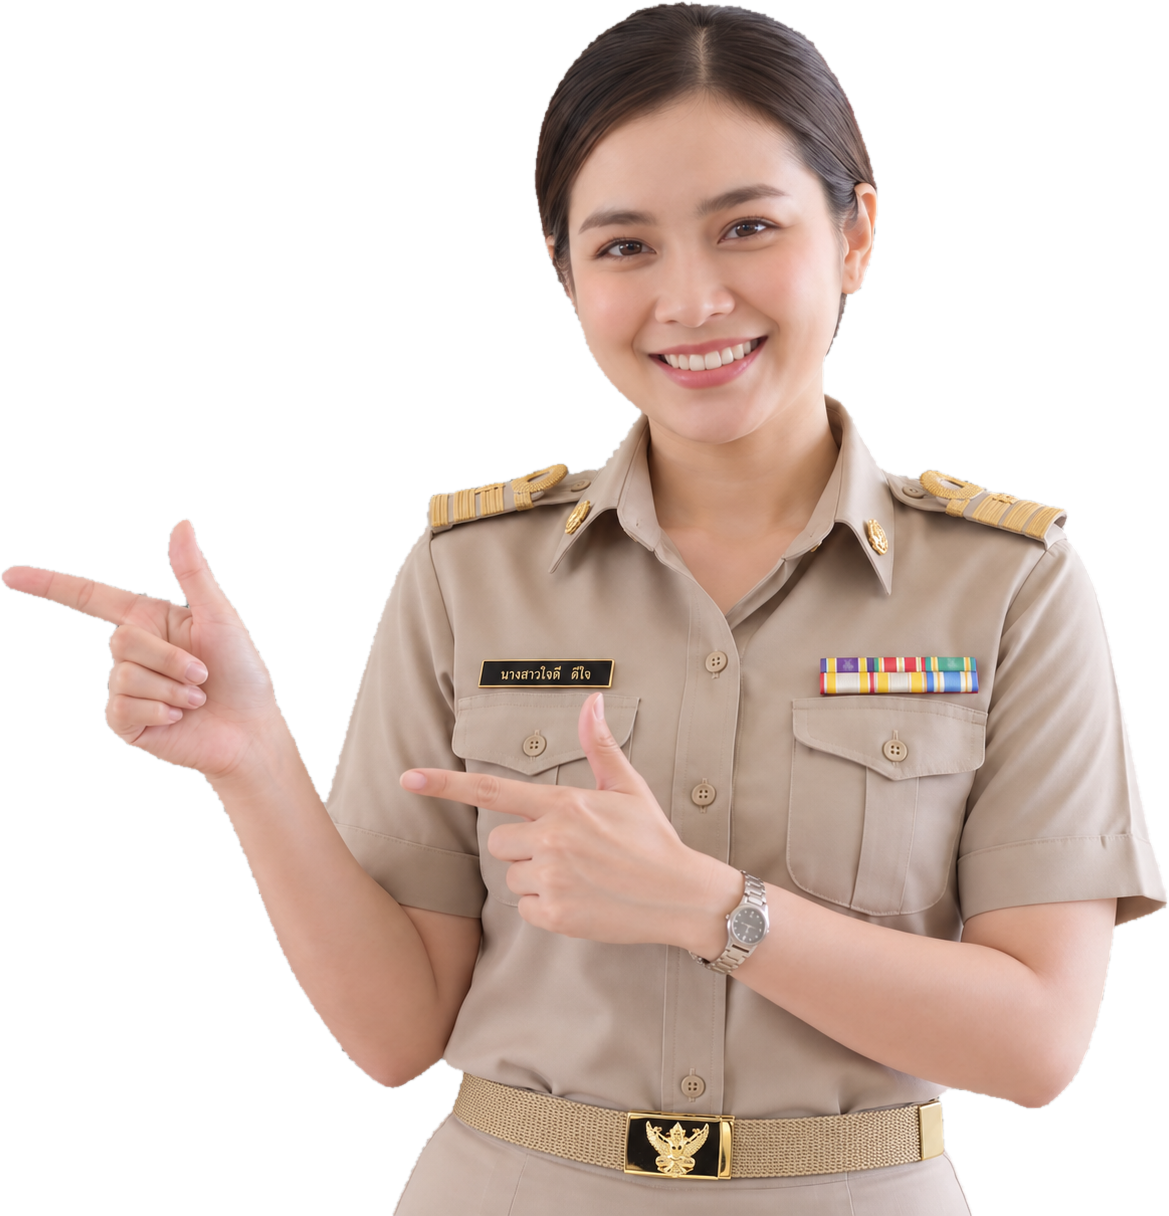
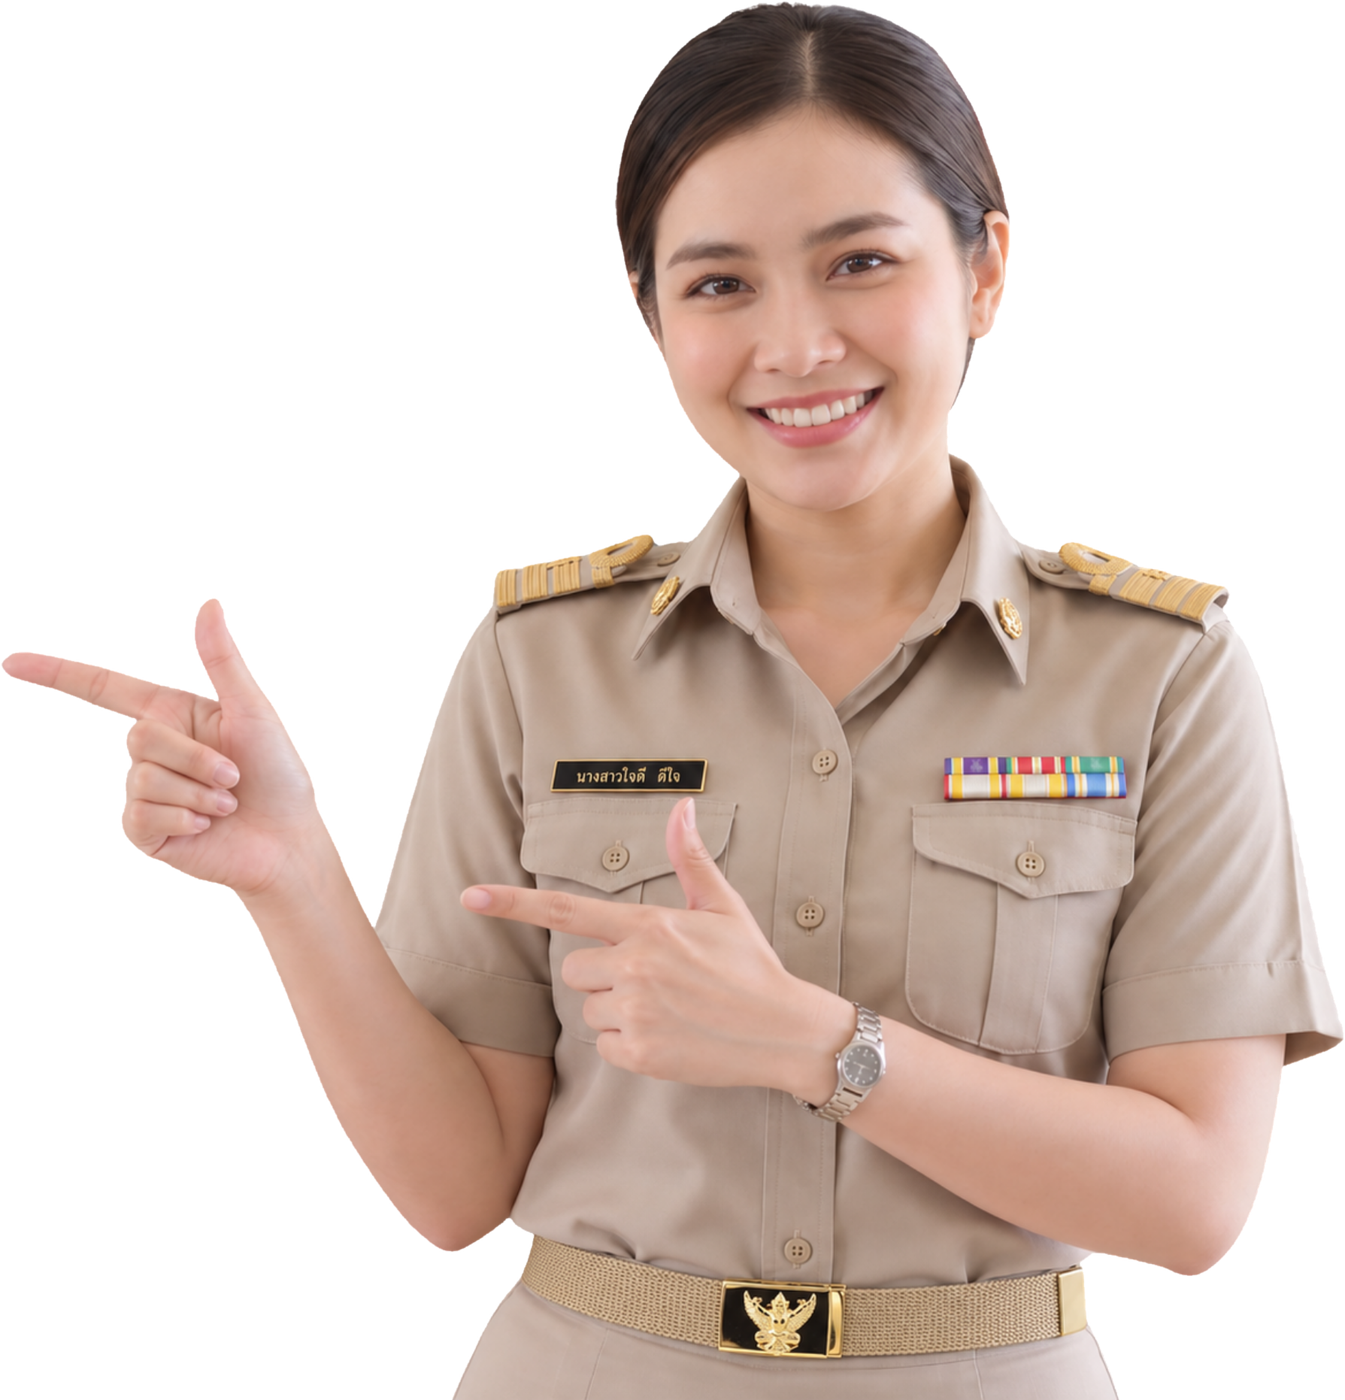
assets(landing): ใช้รูปครูชุดที่ตัดขอบใหม่ + ลบพื้นขาวเป็นโปร่งใส + กัน cache รูปเก่า
รูปที่ส่งมาเป็น RGB พื้นขาวทึบ (ไม่มี alpha) จึงตัดพื้นขาวออกด้วย
lum>=248 + เทาสนิท + flood fill จากขอบ -> ฟัน/ตาขาวไม่โดนเจาะ ขอบผมเนียน
เพิ่ม ?v=3 ที่ path รูป กันเบราว์เซอร์ใช้รูปเก่าที่ cache ไว้

diff --git a/app/templates/landing.html b/app/templates/landing.html
@@ -8,7 +8,7 @@
 <meta property="og:type" content="website">
 <meta property="og:title" content="Easy Ekkasan - ลดงานเอกสาร ให้ครูได้กลับไปสอน">
 <meta property="og:description" content="ระบบพัสดุ การเงิน ธุรการ อาหารกลางวัน บุคคล วิชาการ ในที่เดียว ออกเอกสารราชการครบชุดใน 1 คลิก">
-<meta property="og:image" content="/static/landing/teacher-hero.png">
+<meta property="og:image" content="/static/landing/teacher-hero.png?v=3">
 <meta name="theme-color" content="#2563eb">
 <link rel="icon" href="/static/favicon-ekkasan.png">
 <style>
@@ -553,7 +553,7 @@
     <div class="stage">
       <div class="pop">
         <div class="arch"></div>
-        <img class="photo-pop" src="/static/landing/teacher-hero.png" alt="ครูผู้ใช้งาน Easy Ekkasan">
+        <img class="photo-pop" src="/static/landing/teacher-hero.png?v=3" alt="ครูผู้ใช้งาน Easy Ekkasan">
       </div>
       <div class="float-card fc-1"><svg class="ico"><use href="#ic-grid"/></svg> ใช้งานง่าย <small>ครอบคลุมหลายฝ่ายงาน</small></div>
       <div class="float-card fc-2">งานเอกสาร <small class="up"><svg class="ico" style="color:var(--green);"><use href="#ic-arrow-down"/></svg> ลดลงกว่า 80%</small></div>
@@ -624,7 +624,7 @@
     <div class="stage sm">
       <div class="pop">
         <div class="arch"></div>
-        <img class="photo-pop pp-point" src="/static/landing/teacher-2.png" alt="" onerror="this.remove()">
+        <img class="photo-pop pp-point" src="/static/landing/teacher-2.png?v=3" alt="" onerror="this.remove()">
         <span class="ph-note">วางรูปครู → app/static/landing/teacher-2.png</span>
       </div>
       <div class="float-card fc-2">ชุดเอกสารจัดซื้อ <small class="up"><svg class="ico" style="color:var(--green);"><use href="#ic-check"/></svg> ครบ 11 เอกสารใน 1 คลิก</small></div>
